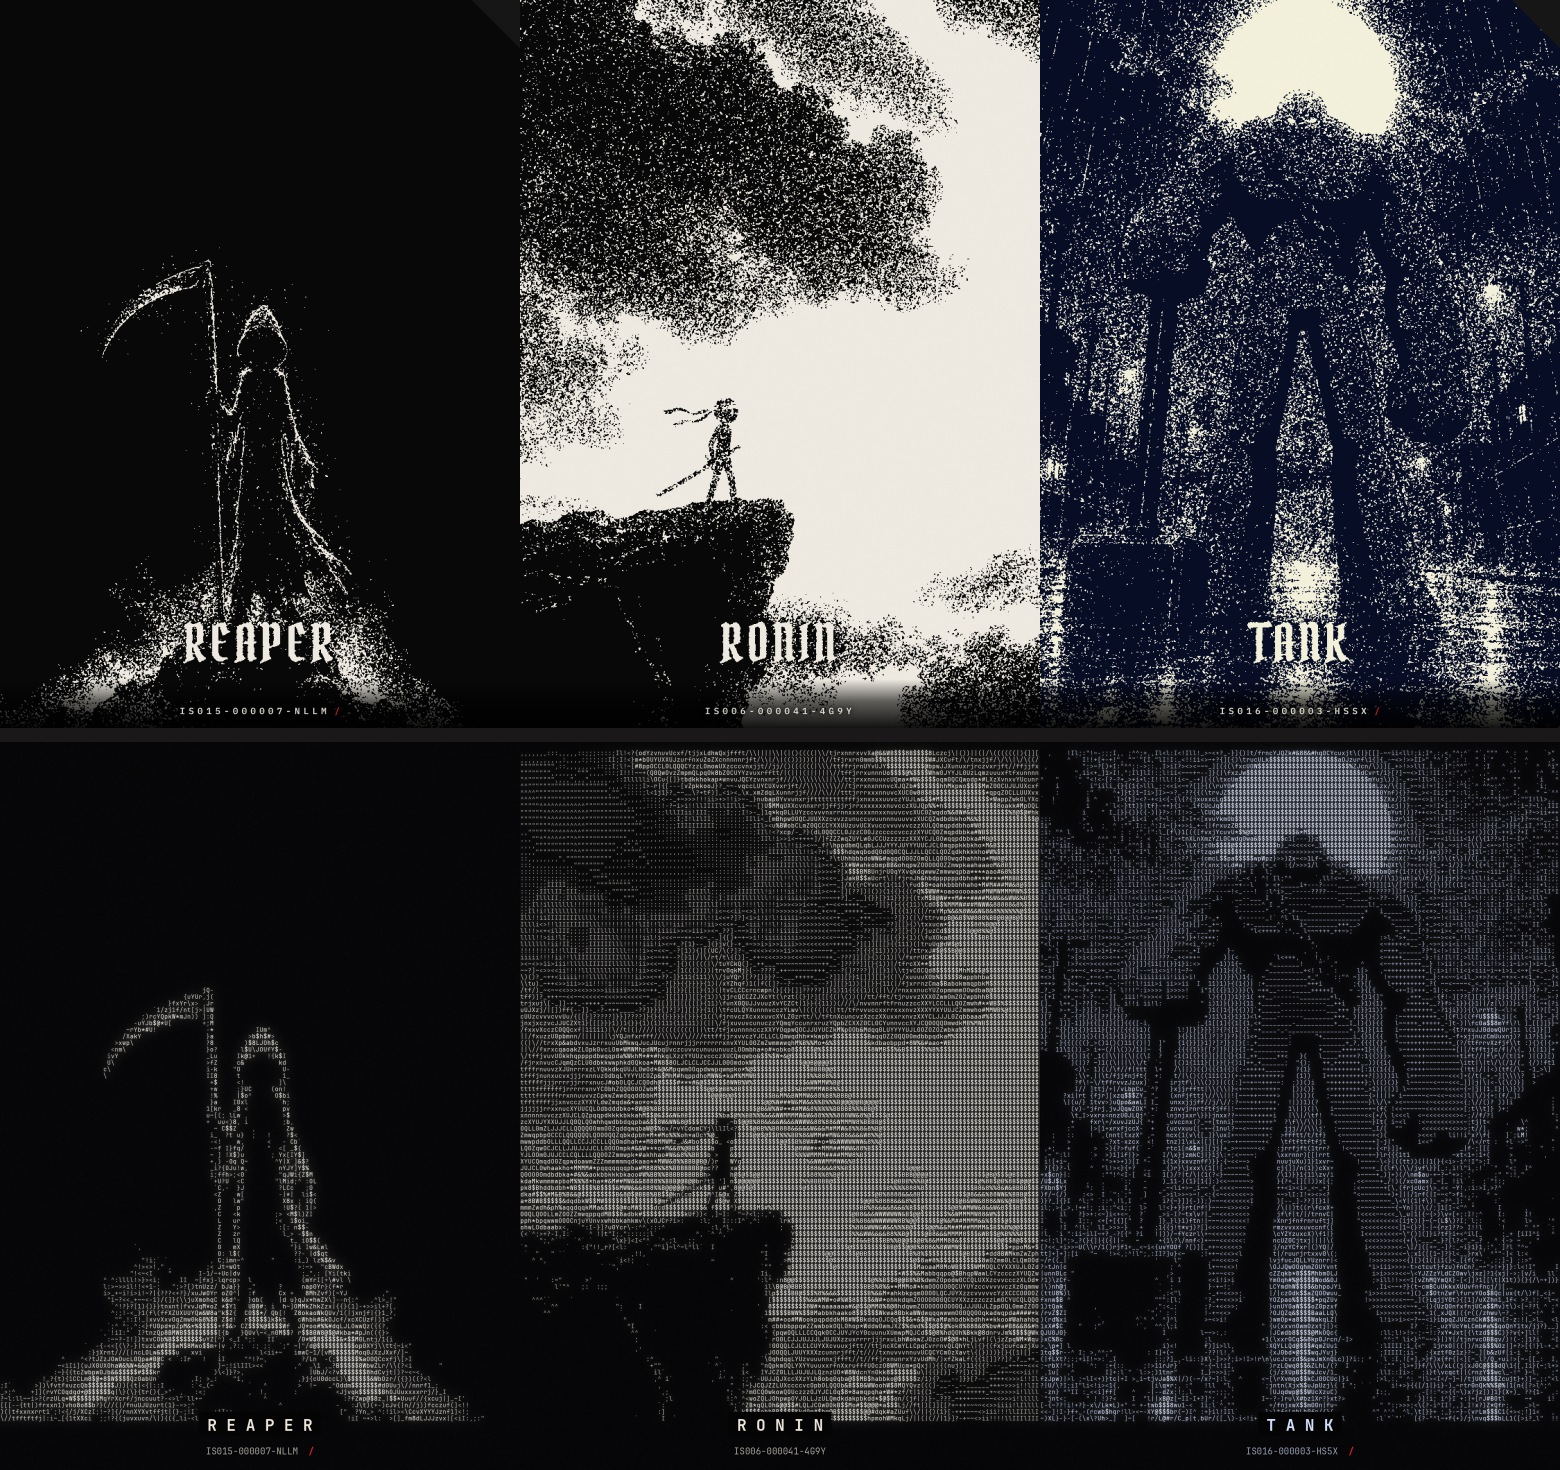
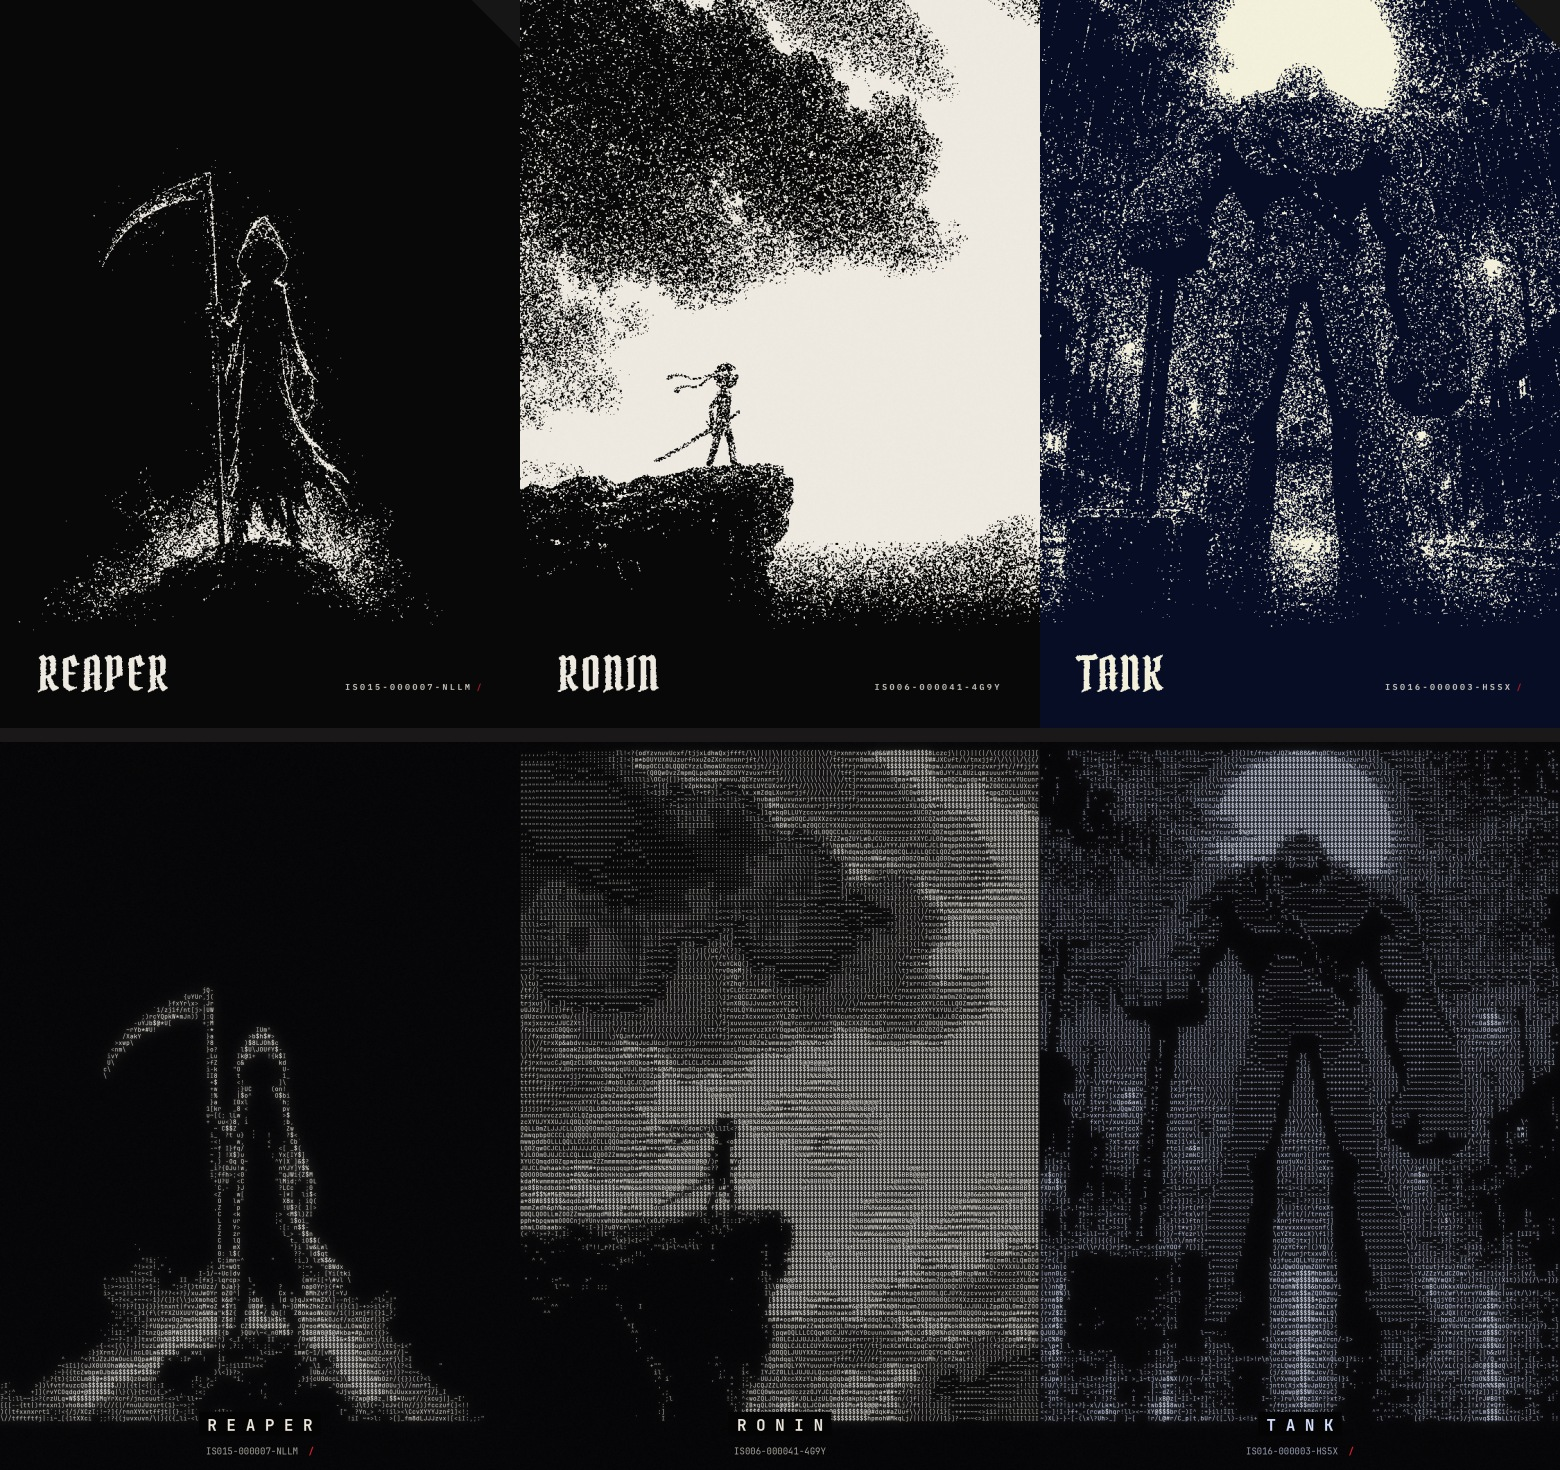
Grain cards: the name and ID get their own black strip
The picture now ends about 85% of the way down and dissolves into black
through the grain; the small name (left) and copy ID with rarity cuts (right)
sit in the clean strip, so the type never overlaps the art.

Claude-Session: https://claude.ai/code/session_01B5R6bTWyYQaC5vMtkxCWhG

diff --git a/stickfist/design-concepts/grain-and-ascii/tools/grain_cards.js b/stickfist/design-concepts/grain-and-ascii/tools/grain_cards.js
@@ -20,8 +20,7 @@ const TINT = { bw: '#ece7dc', blue: '#eeeadb', red: '#efe4d8', olive: '#e1e6c0',
   await p.setContent(`<!doctype html><html><head><meta charset="utf-8"><link href="https://fonts.googleapis.com/css2?family=IBM+Plex+Mono:wght@500;600&display=swap" rel="stylesheet"><style>
     *{margin:0;padding:0;box-sizing:border-box}body{background:#161617;padding:24px;display:flex;gap:24px;width:max-content}
     .card{width:750px;height:1050px;position:relative;overflow:hidden;background:#000;flex:none}.card img{position:absolute;inset:0;width:100%;height:100%}
-    .card::after{content:'';position:absolute;left:0;right:0;bottom:0;height:70px;background:linear-gradient(0deg,rgba(0,0,0,.92),rgba(0,0,0,.6) 55%,rgba(0,0,0,0));pointer-events:none}
-    .id{z-index:2;position:absolute;left:0;right:0;bottom:16px;text-align:center;font:600 13px 'IBM Plex Mono';letter-spacing:.38em;white-space:nowrap;text-shadow:0 0 6px #000,0 0 12px #000;opacity:.9}
+        .id{z-index:2;position:absolute;right:55px;bottom:52px;text-align:right;font:600 12px 'IBM Plex Mono';letter-spacing:.3em;white-space:nowrap;opacity:.85}
     .id.top{bottom:auto;top:26px}.id i{font-style:normal;font-weight:700;color:#e0202c;margin-left:.5em;letter-spacing:.04em}
   </style></head><body>${cards}</body></html>`);
   await p.evaluate(() => document.fonts.ready); await p.waitForTimeout(800);

diff --git a/stickfist/design-concepts/grain-and-ascii/tools/grain_card.py b/stickfist/design-concepts/grain-and-ascii/tools/grain_card.py
@@ -4,16 +4,21 @@ import sys, cv2, numpy as np
 import grain_style as G
 
 
-def render_card(art, mask_path, out, mode='bw', g_px=2, seed=1, crop=0.5, halo=0.82, halo_r=34, text_bleed=0.5, **kw):
+def render_card(art, mask_path, out, mode='bw', g_px=2, seed=1, crop=0.5, halo=0.82, halo_r=34, text_bleed=0.5,
+                art_h=1820, shift=0, fade=260, **kw):
+    """the picture fills the top art_h rows and dissolves into black; the name lives in the black strip below"""
+    art_h, shift, fade = int(art_h), int(shift), int(fade)
     img = cv2.imread(art)
-    h0, w0 = img.shape[:2]; k = max(G.W / w0, G.H / h0)
+    h0, w0 = img.shape[:2]; k = max(G.W / w0, art_h / h0, G.W / w0)
     img = cv2.resize(img, (int(round(w0 * k)), int(round(h0 * k))), interpolation=cv2.INTER_LANCZOS4)
-    y0 = int((img.shape[0] - G.H) * crop); x0 = (img.shape[1] - G.W) // 2
-    img = np.ascontiguousarray(img[y0:y0 + G.H, x0:x0 + G.W])
-    t = G.tone(img, **kw)
+    x0 = (img.shape[1] - G.W) // 2
+    shift = min(shift, img.shape[0] - art_h)
+    win = np.ascontiguousarray(img[shift:shift + art_h, x0:x0 + G.W])
+    tw = G.tone(win, **kw)
+    t = np.zeros((G.H, G.W), np.float32); t[:art_h] = tw
+    ramp = np.clip((art_h - np.arange(G.H, dtype=np.float32)) / fade, 0, 1) ** 1.6      # 1 above the fade, 0 in the strip
+    t *= ramp[:, None]
     m = cv2.imread(mask_path, 0).astype(np.float32) / 255
-    # a dark halo behind the letters so they read on bright art, then the letters at full white
-    t = t * (1 - halo * np.clip(cv2.GaussianBlur(m, (0, 0), halo_r) * 3.2, 0, 1))
     t = np.maximum(t, np.clip(m * 1.15, 0, 1))
     b = G.grain(t, g_px, seed, bleed=text_bleed)
     sh, hi = (np.array(c, np.float32) for c in G.TINTS[mode])
